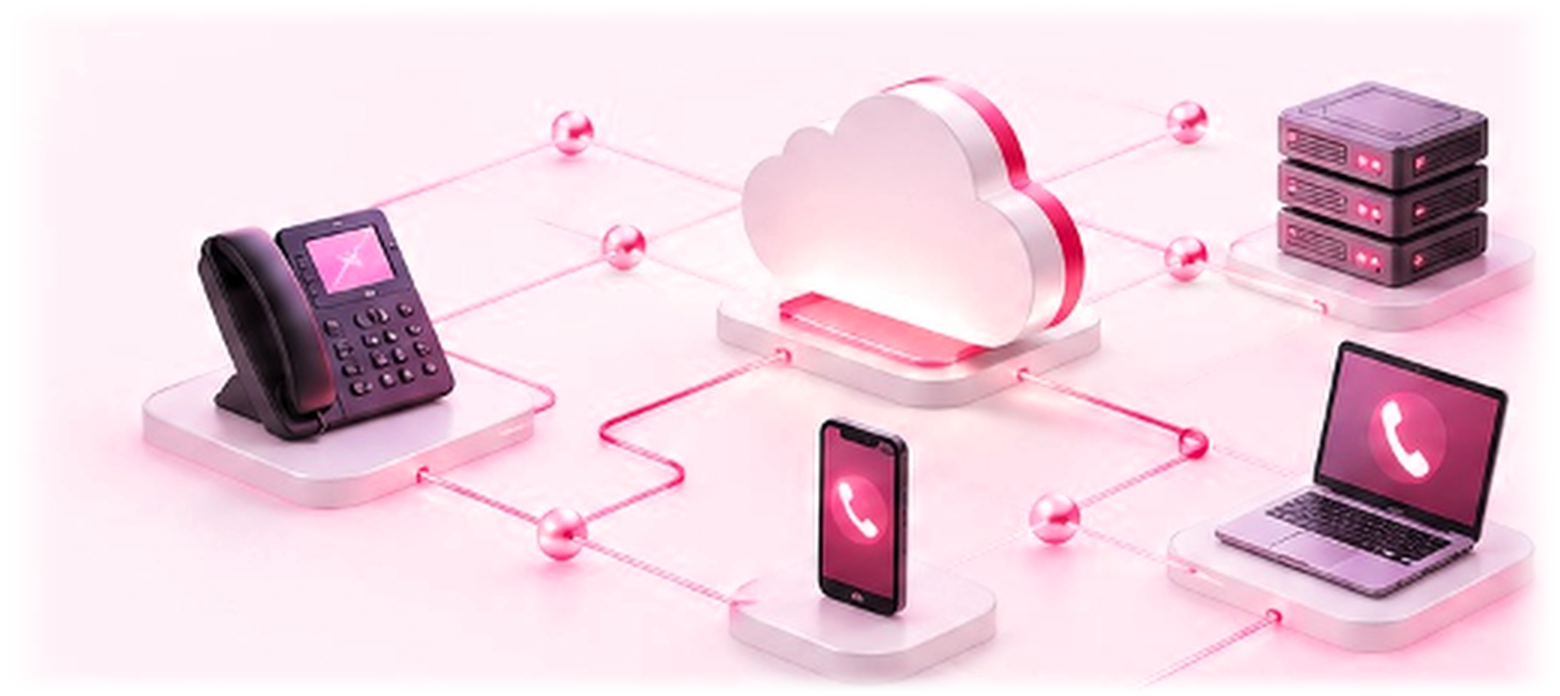
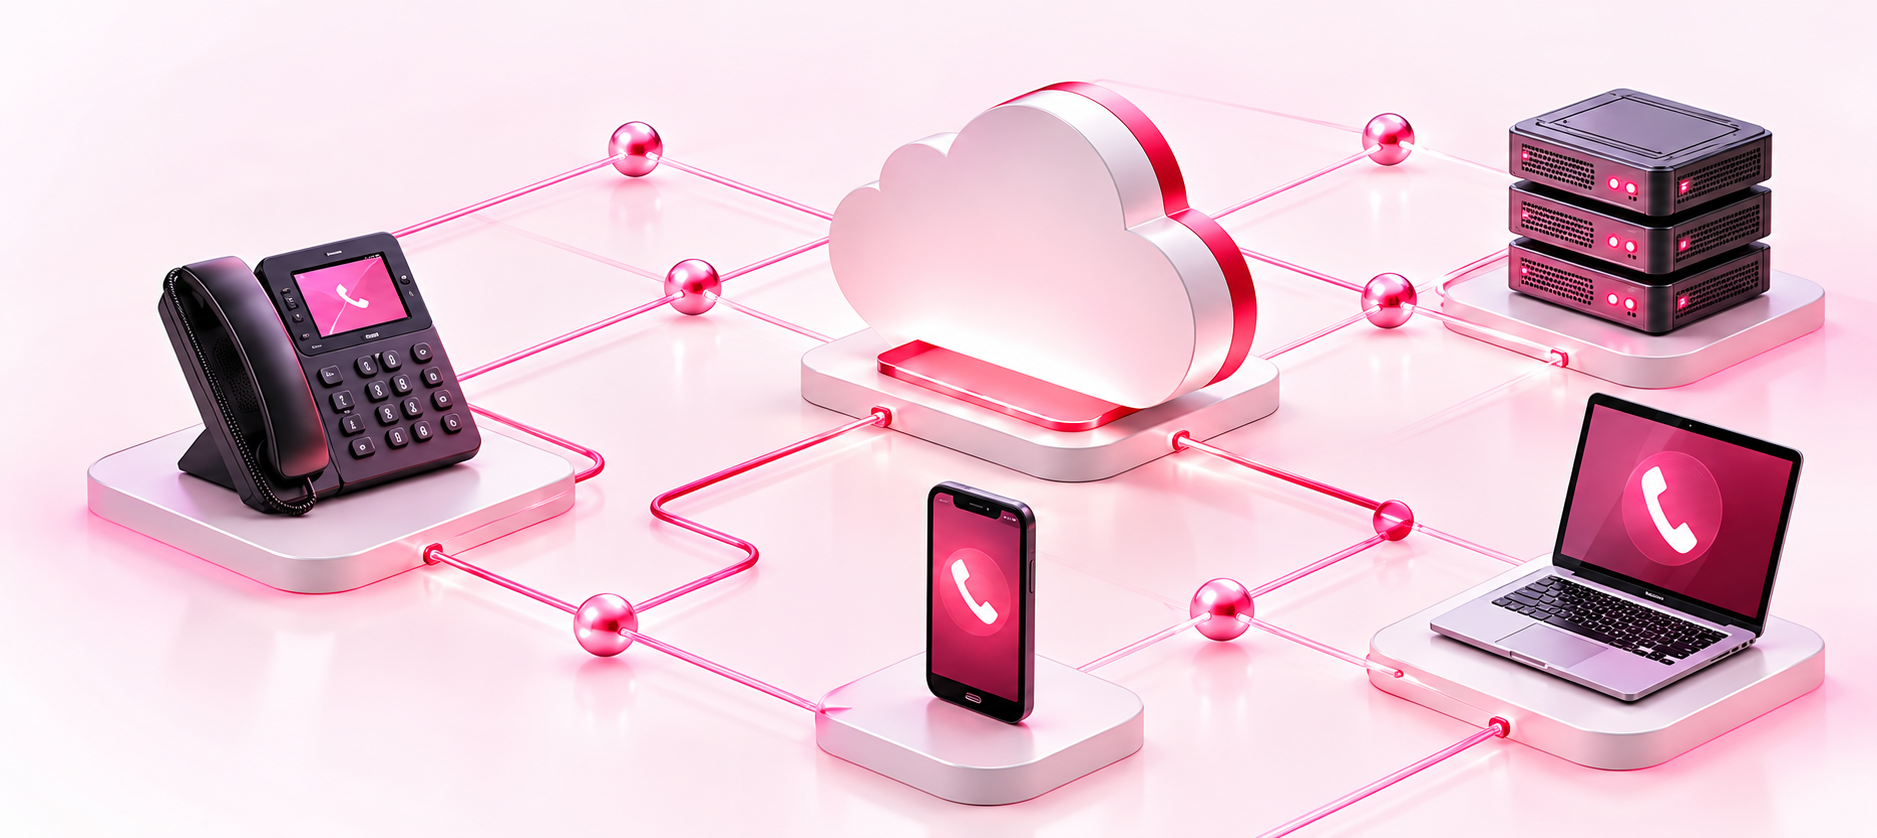
Enhanced Image quality in about page

Changed region(s): [[0.0308, 0.0905, 1.0, 1.0], [0.6462, 0.9655, 0.7385, 1.0], [0.8923, 0.9957, 0.9231, 1.0]]

diff --git a/components/site/about-mission-pillars.tsx b/components/site/about-mission-pillars.tsx
@@ -90,8 +90,8 @@ export function AboutMissionPillars() {
               the reference does, instead of two boxes sitting side by side. */}
           <div className="pointer-events-none absolute inset-y-0 right-0 hidden w-[62%] overflow-hidden rounded-3xl lg:block">
             <Image
-              src="/images/about/about-mission-boardroom.png"
-              alt="SipLink global technology leadership team in boardroom reviewing network infrastructure"
+              src="/images/about/about-mission-vision.png"
+              alt="SipLink leadership team in a boardroom reviewing a global connectivity map at dusk"
               fill
               sizes="62vw"
               className="object-cover object-right-top"
@@ -99,8 +99,8 @@ export function AboutMissionPillars() {
             />
             {/* Scrim covers only the zone the text and cards occupy, and
                 clears by 42% — the same graduated fade the homepage hero
-                uses, which is also what hides the photo's own baked-in
-                text in its lower-left corner. */}
+                uses. The photo's own quiet left third (window, skyline) is
+                what it fades over. */}
             <div
               aria-hidden
               className="absolute inset-0 bg-gradient-to-r from-muted/85 from-0% via-muted/40 via-22% to-transparent to-42%"
@@ -134,8 +134,8 @@ export function AboutMissionPillars() {
               `lg` the photo returns as an ordinary framed image instead. */}
           <div className="relative mt-8 overflow-hidden rounded-2xl border border-border/70 lg:hidden aspect-[16/10] w-full">
             <Image
-              src="/images/about/about-mission-boardroom.png"
-              alt="SipLink technology leadership team in boardroom reviewing global telecom network infrastructure"
+              src="/images/about/about-mission-vision.png"
+              alt="SipLink leadership team in a boardroom reviewing a global connectivity map at dusk"
               fill
               sizes="100vw"
               className="object-cover object-center"

diff --git a/components/site/why-choose-section.tsx b/components/site/why-choose-section.tsx
@@ -149,12 +149,18 @@ export function WhyChooseSection() {
                   className="pointer-events-none absolute -inset-4 rounded-full bg-rose-200/20 dark:bg-primary/5 blur-2xl"
                 />
                 <div className="relative aspect-[16/9] w-full max-w-[720px] min-h-[260px] sm:min-h-[300px] lg:min-h-[340px]">
+                  {/* The source render has its own flat pink-white backdrop
+                      baked into the pixels, which meets the card's own
+                      background as a visible square — `edge-fade` masks
+                      that backdrop out radially so only the isometric scene
+                      itself survives, and it dissolves into the card
+                      instead of sitting in a box. */}
                   <Image
                     src="/images/about/why-choose-voip-network-hd.png"
                     alt="SipLink 3D isometric VoIP communications network showing connected cloud, IP desk phone, mobile, laptop and server infrastructure"
                     fill
                     sizes="(max-width: 1024px) 100vw, 60vw"
-                    className="object-contain object-center transition-transform duration-500 group-hover:scale-[1.02]"
+                    className="edge-fade object-contain object-center transition-transform duration-500 group-hover:scale-[1.02]"
                     priority={false}
                   />
                 </div>

diff --git a/app/why-siplink/page.tsx b/app/why-siplink/page.tsx
@@ -54,7 +54,7 @@ export default function WhySipLinkPage() {
             </Badge>
 
             <h1 className="text-4xl font-semibold tracking-tight text-balance sm:text-5xl lg:text-6xl">
-              Communication that works for your business — without the complexity.
+              Communication that works for your business  without the complexity.
             </h1>
 
             <p className="mt-6 text-lg text-pretty text-muted-foreground sm:text-xl">
